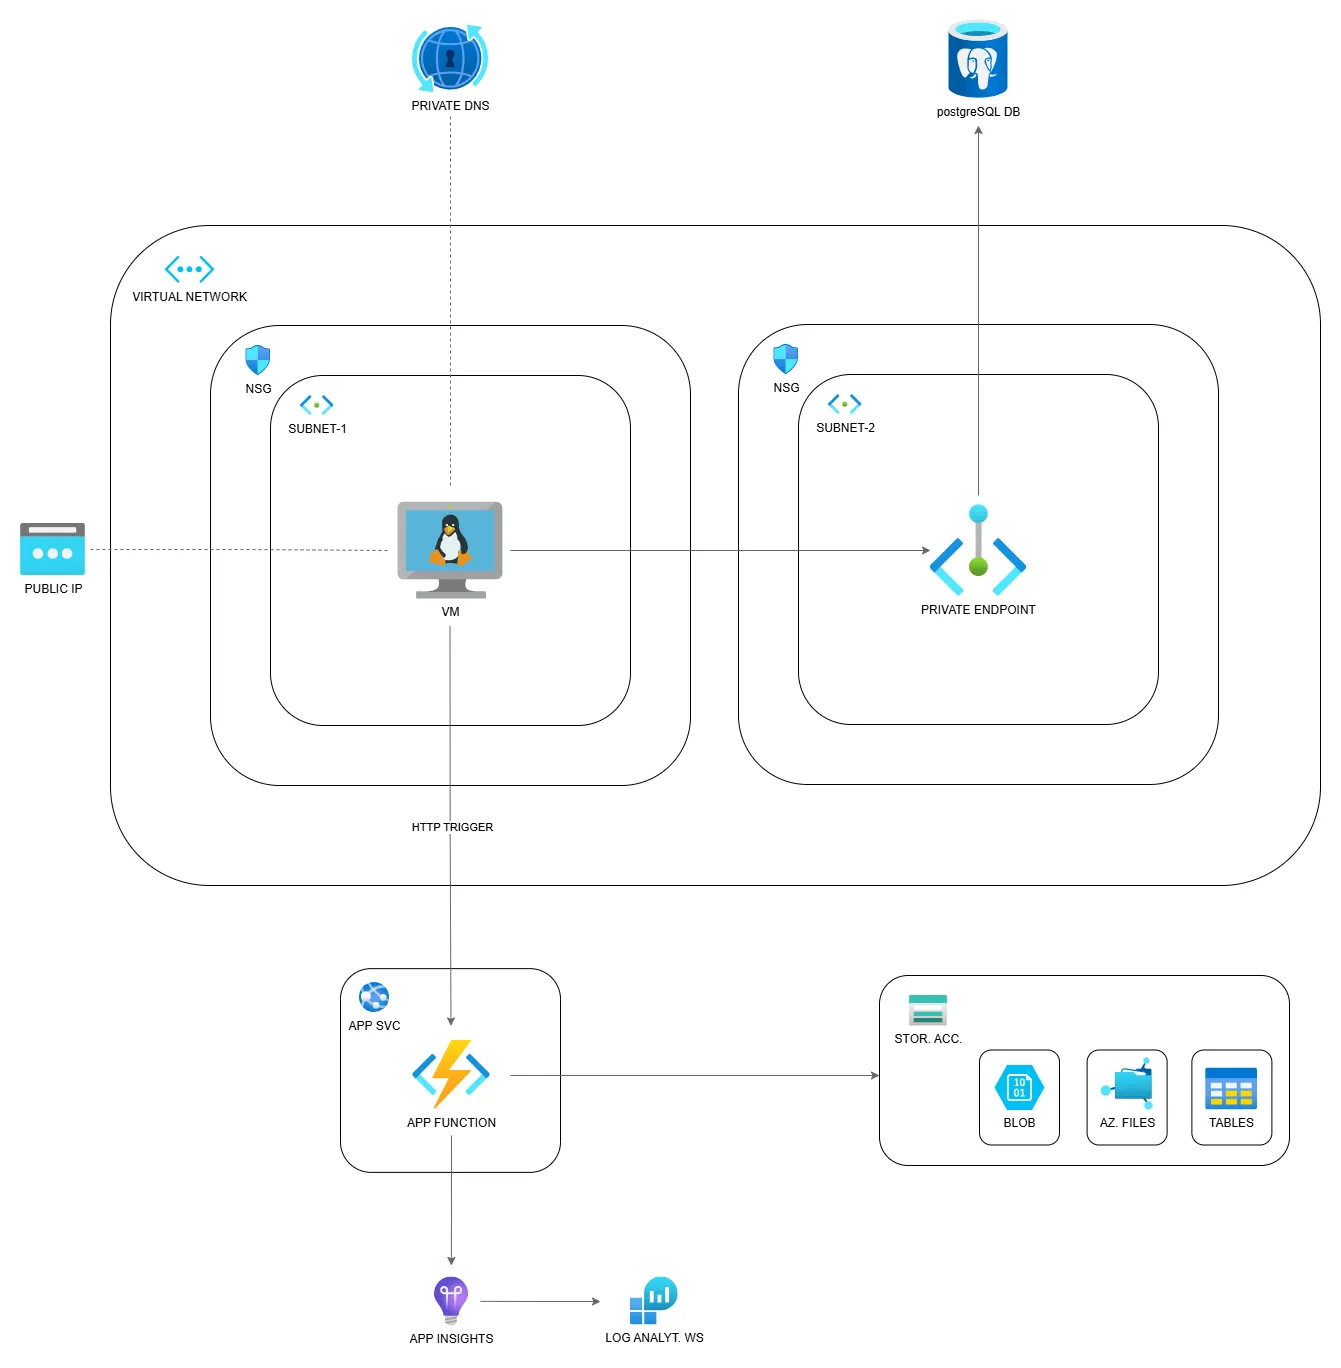
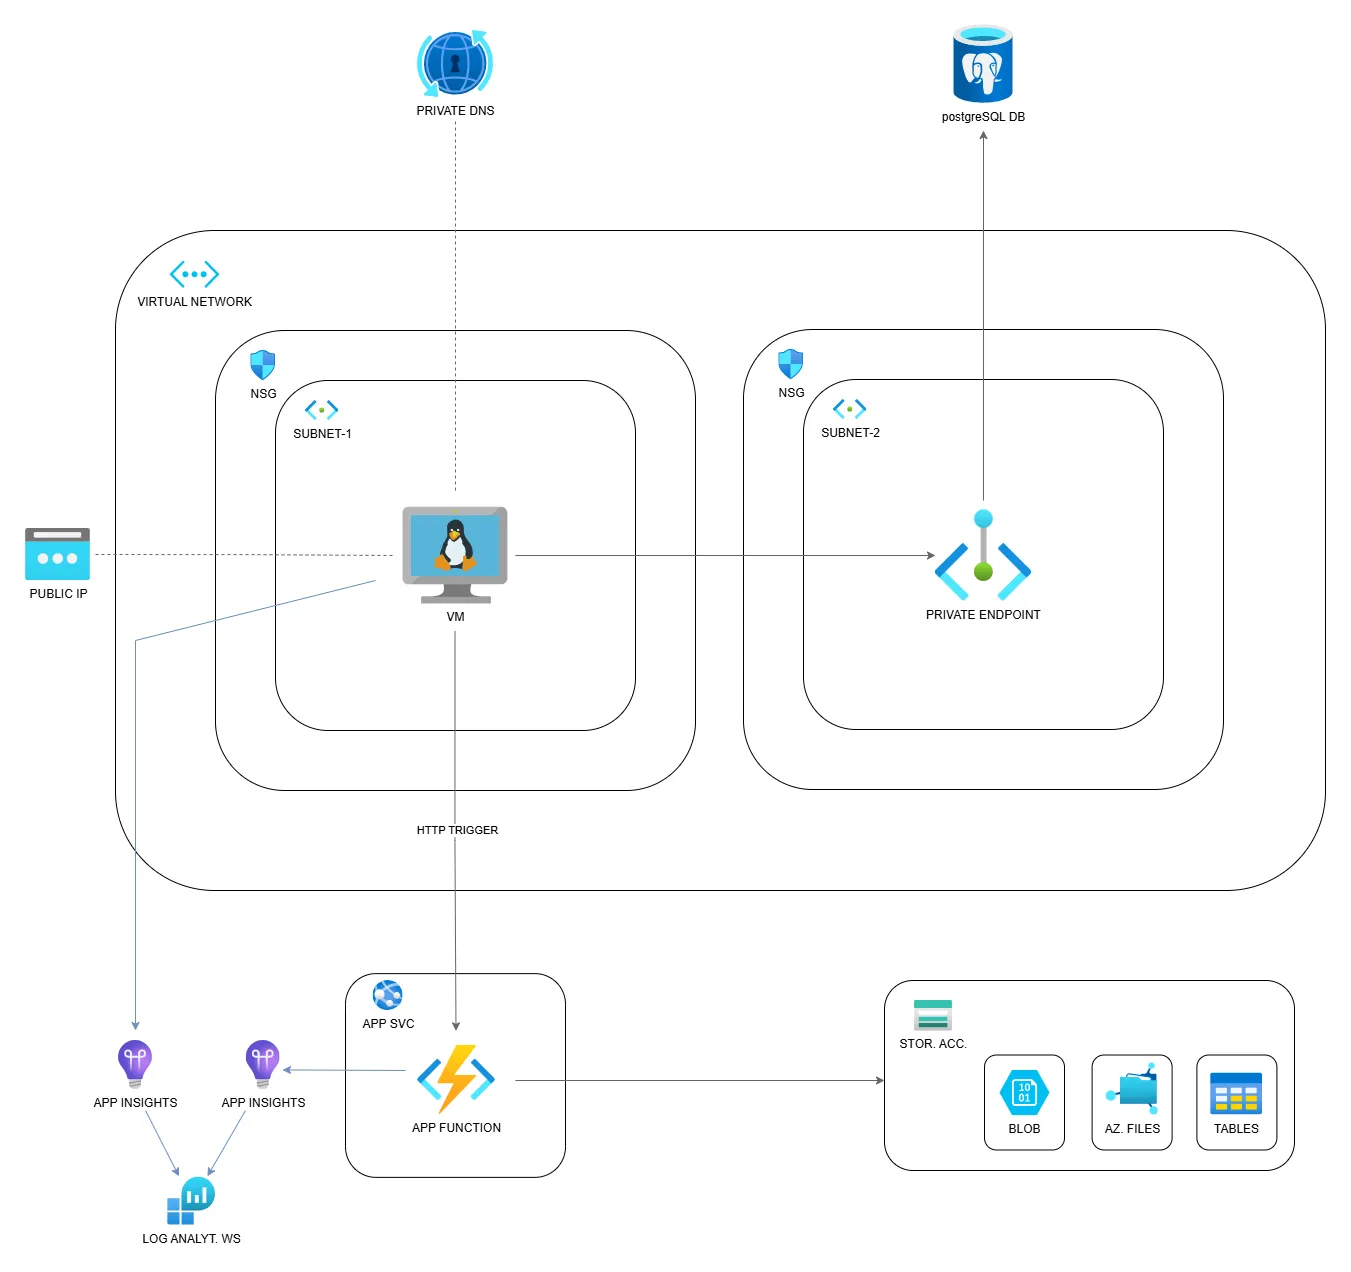
Updated_README.md

diff --git a/README.md b/README.md
@@ -26,17 +26,37 @@ Main components:
  - Azure PostgreSQL flexible-server DB
  - General Purpose Storage Account for Function App management
 ### Observability
- - Application Insights for monitoring and troubleshooting App Function
- - Log Analytics Workspace for collecting and querying data
+ - Application Insights for monitoring and troubleshooting Next.js app and Function App
+ - Centralized Log Analytics Workspace for collecting and querying data
 ### Security
- - System-assigned Identities for accessing Postgres DB from the VM and User-assigned Identities for Storage Account access (with roles definitions)
+ - System-assigned managed identities for accessing Postgres DB from the VM and for Application Insights
+ - User-assigned managed identities for Storage Account access (with roles definitions)
+ - Role Assignments
  - Key Vault for handling secrets
 
 ### IaaC
-The infrastructure was provisioned by Bicep templates. You can see the the custom templates by visiting the following repository: [IaaC repository](https://github.com/intellimat/IaaC/tree/master/Azure_Bicep_Templates)
+The infrastructure was provisioned by Bicep templates. You can see some the the custom templates by visiting the following repository: [IaaC repository](https://github.com/intellimat/IaaC/tree/master/Azure_Bicep_Templates)
 
 ### Azure Function
 The HTTP triggered Azure function code is available at: [Azure Function repository](https://github.com/intellimat/Azure-Function-Test-Project)
+
+### More about Observability
+Metric alerts for the VM:
+- VM Availability (is VM up?)
+- CPU usage (>80%)
+- Memory (< 100MB available)
+- Disk IOPS (>95% consumed)
+- Network in/out thresholds
+
+Application Insights
+- an instance for the Function App
+- an instance for the Next.js App
+
+Both Application Insights instances ingest data into a single Log Analytics Workspace.
+
+A custom alert linked to the Next.js Application Insights instance was created to monitor failed requests.  
+The flow is:  
+Application Insights metric &rarr; Metric Alert Rule &rarr; Action Group &rarr; Email Notification
 
 ### Github actions workflow
 A _deploy.yml_ automates building and deploying the app on a Virtual Machine instance in the cloud. 
